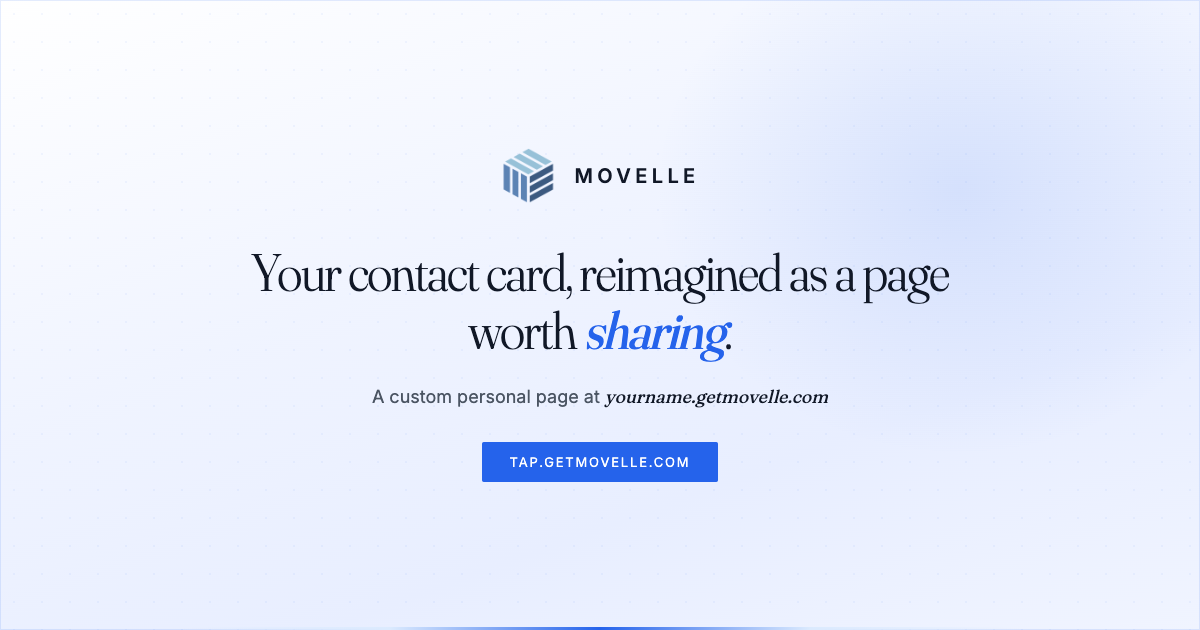
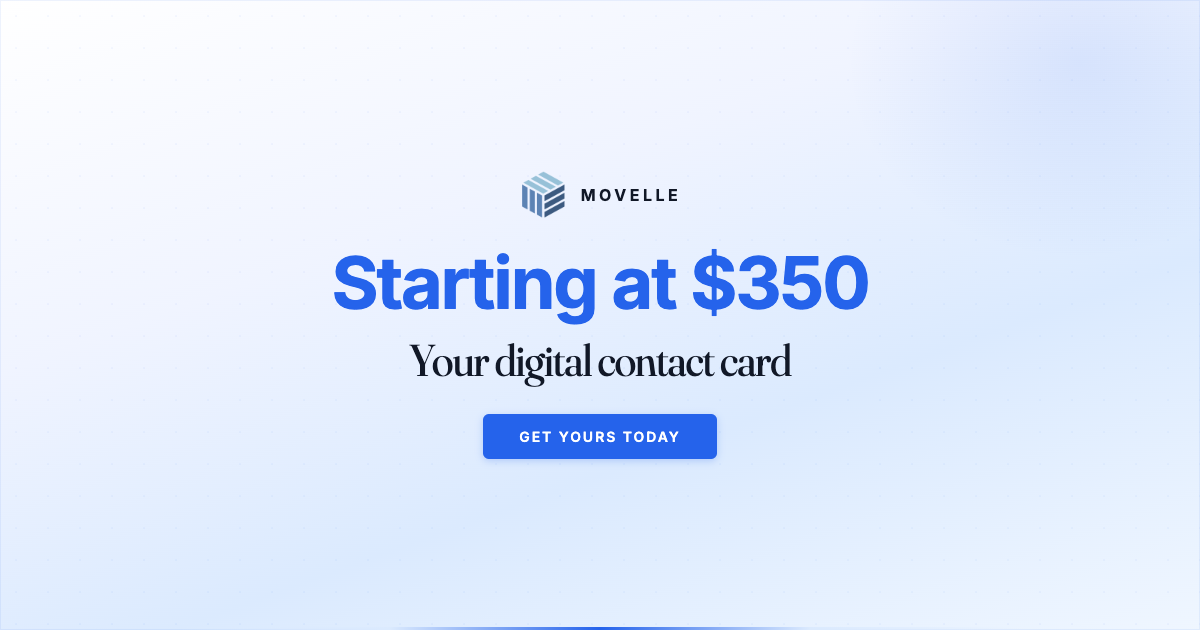
New OG images (EN+ES) + mobile nav fix
OG images:
- Big price text (Starting at $350 / Desde $350)
- Title + 'Get yours today' CTA button
- ES gets own og-es.png, meta tag updated

Mobile nav:
- Smaller wordmark, tighter gaps, compact lang pill
- Fixes overlap on 375px screens

Changed region(s): [[0.2158, 0.3921, 0.8017, 0.7841], [0.4008, 0.2413, 0.5858, 0.3619]]

diff --git a/es/index.html b/es/index.html
@@ -10,7 +10,7 @@
 <meta property="og:description" content="Una página personal en tunombre.getmovelle.com. Compartes el enlace. Tocan para llamar, escribir, guardar, reservar.">
 <meta property="og:type" content="website">
 <meta property="og:url" content="https://tap.getmovelle.com/es/">
-<meta property="og:image" content="https://tap.getmovelle.com/images/og.png">
+<meta property="og:image" content="https://tap.getmovelle.com/images/og-es.png">
 <meta name="twitter:card" content="summary_large_image">
 <link rel="icon" type="image/png" sizes="32x32" href="../images/favicon-32.png">
 <link rel="icon" type="image/png" sizes="192x192" href="../images/favicon-192.png">
@@ -407,9 +407,12 @@
     .pricing-grid{grid-template-columns:1fr}
     .price{border-right:none}
     .faq{grid-template-columns:1fr;gap:8px}
-    .nav-cta{font-size:11px;padding:12px 12px;letter-spacing:.12em;min-height:44px}
+    .nav-cta{font-size:10px;padding:10px 14px;letter-spacing:.1em;min-height:44px}
     .nav-link{display:none}
-    .nav-right{gap:18px}
+    .nav-right{gap:12px}
+    .wordmark{font-size:12px;letter-spacing:.14em;gap:8px}
+    .wordmark img{width:24px;height:24px}
+    .lang-toggle a{min-width:34px;min-height:32px;font-size:10px}
     .sec-head{margin-bottom:40px}
     .cta-mail{font-size:16px;padding:14px 20px}
     .foot-inner{flex-direction:column;align-items:flex-start}

diff --git a/en/index.html b/en/index.html
@@ -408,9 +408,12 @@
     .pricing-grid{grid-template-columns:1fr}
     .price{border-right:none}
     .faq{grid-template-columns:1fr;gap:8px}
-    .nav-cta{font-size:11px;padding:12px 12px;letter-spacing:.12em;min-height:44px}
+    .nav-cta{font-size:10px;padding:10px 14px;letter-spacing:.1em;min-height:44px}
     .nav-link{display:none}
-    .nav-right{gap:18px}
+    .nav-right{gap:12px}
+    .wordmark{font-size:12px;letter-spacing:.14em;gap:8px}
+    .wordmark img{width:24px;height:24px}
+    .lang-toggle a{min-width:34px;min-height:32px;font-size:10px}
     .sec-head{margin-bottom:40px}
     .cta-mail{font-size:16px;padding:14px 20px}
     .foot-inner{flex-direction:column;align-items:flex-start}
